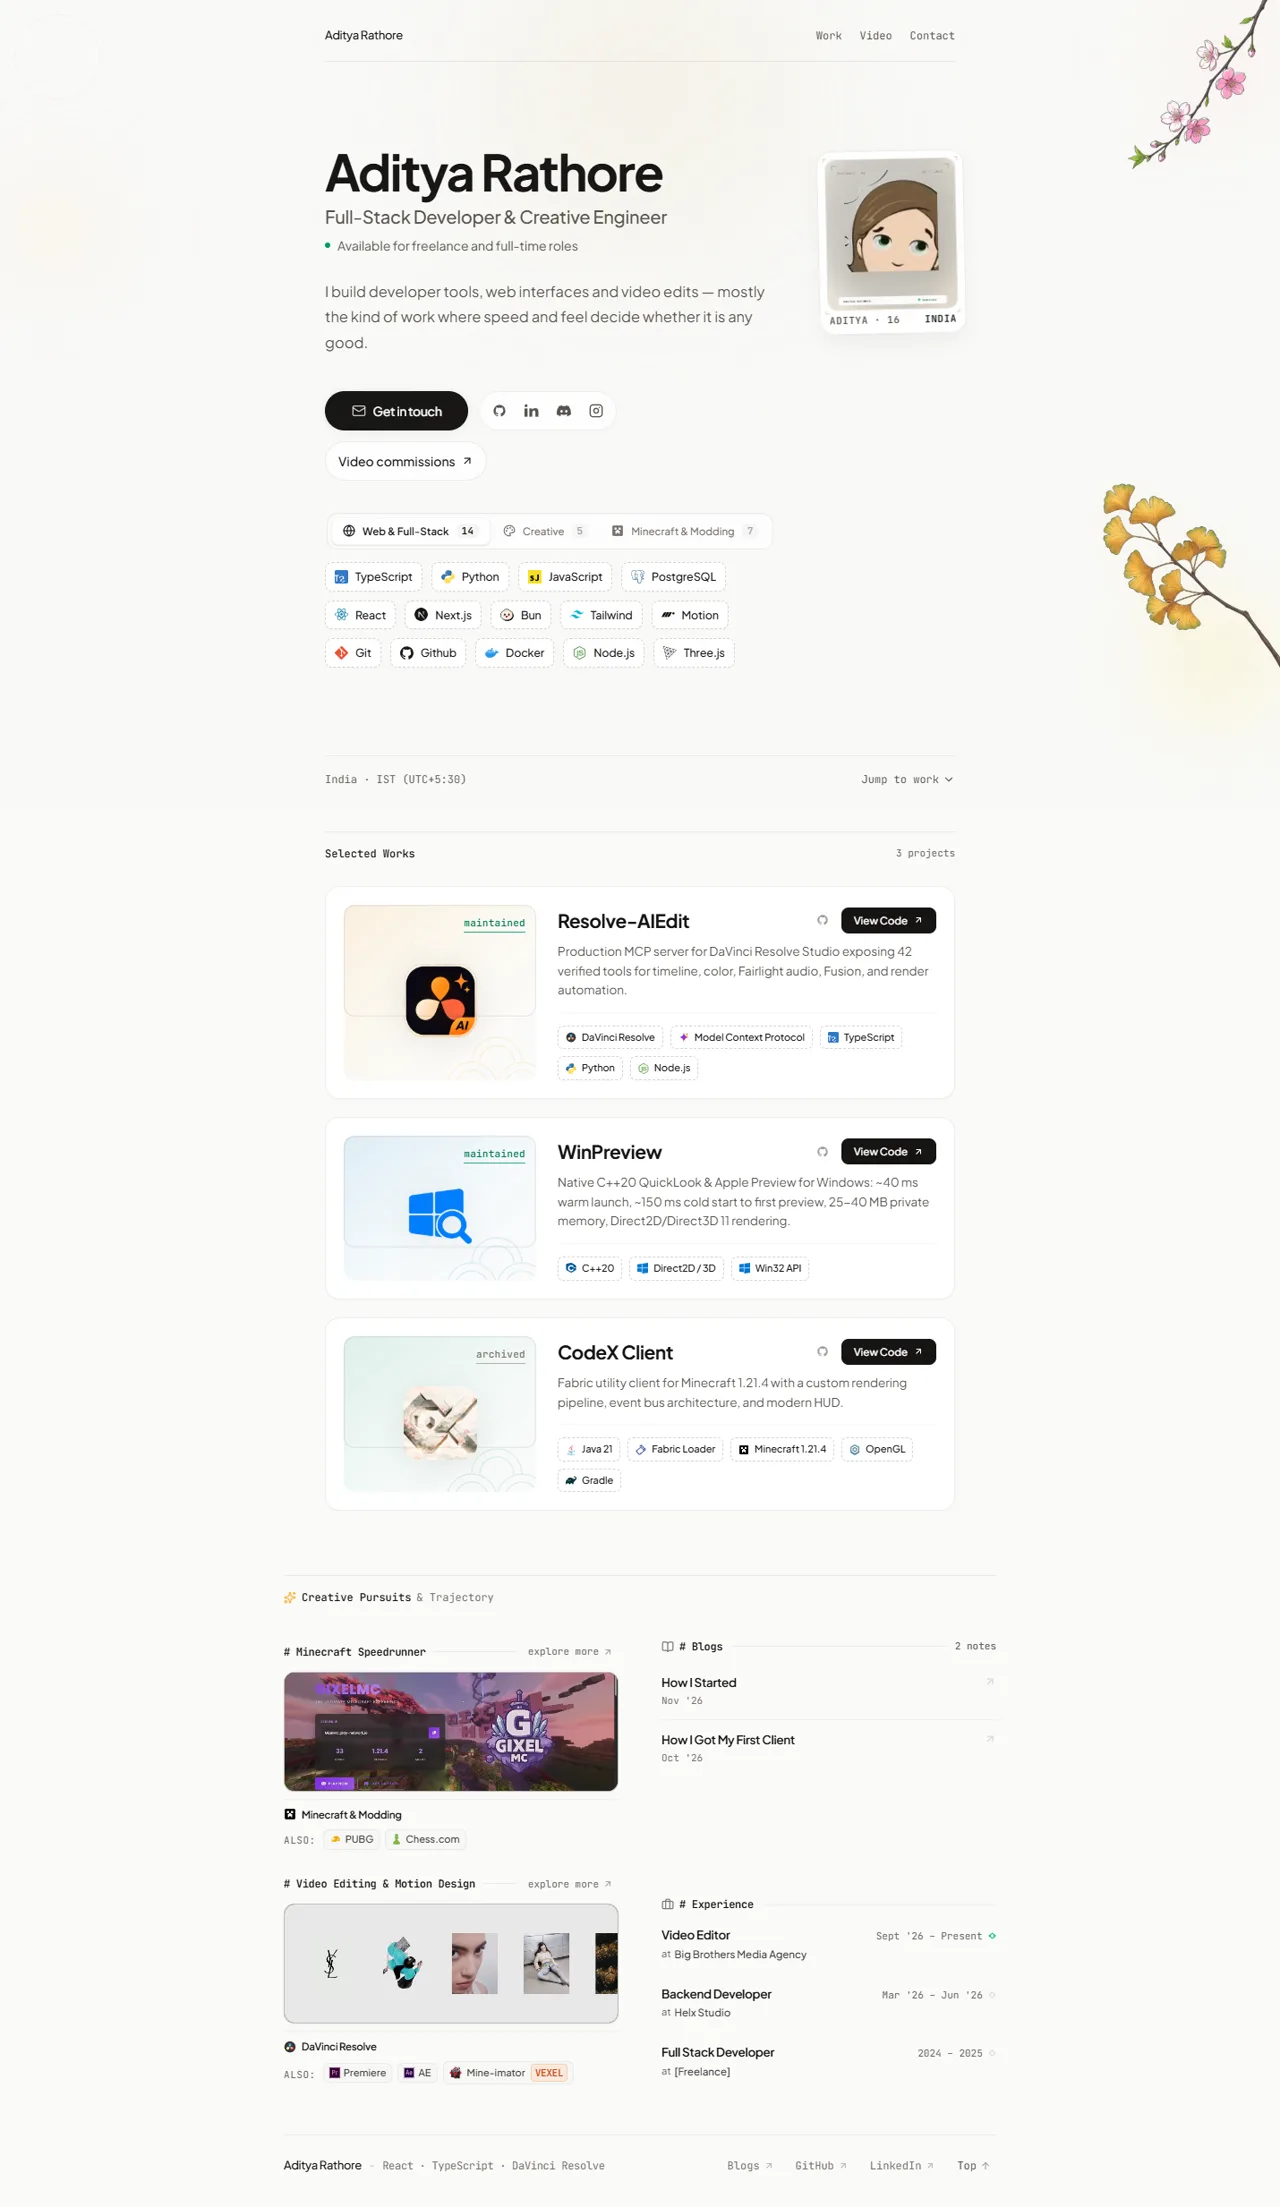
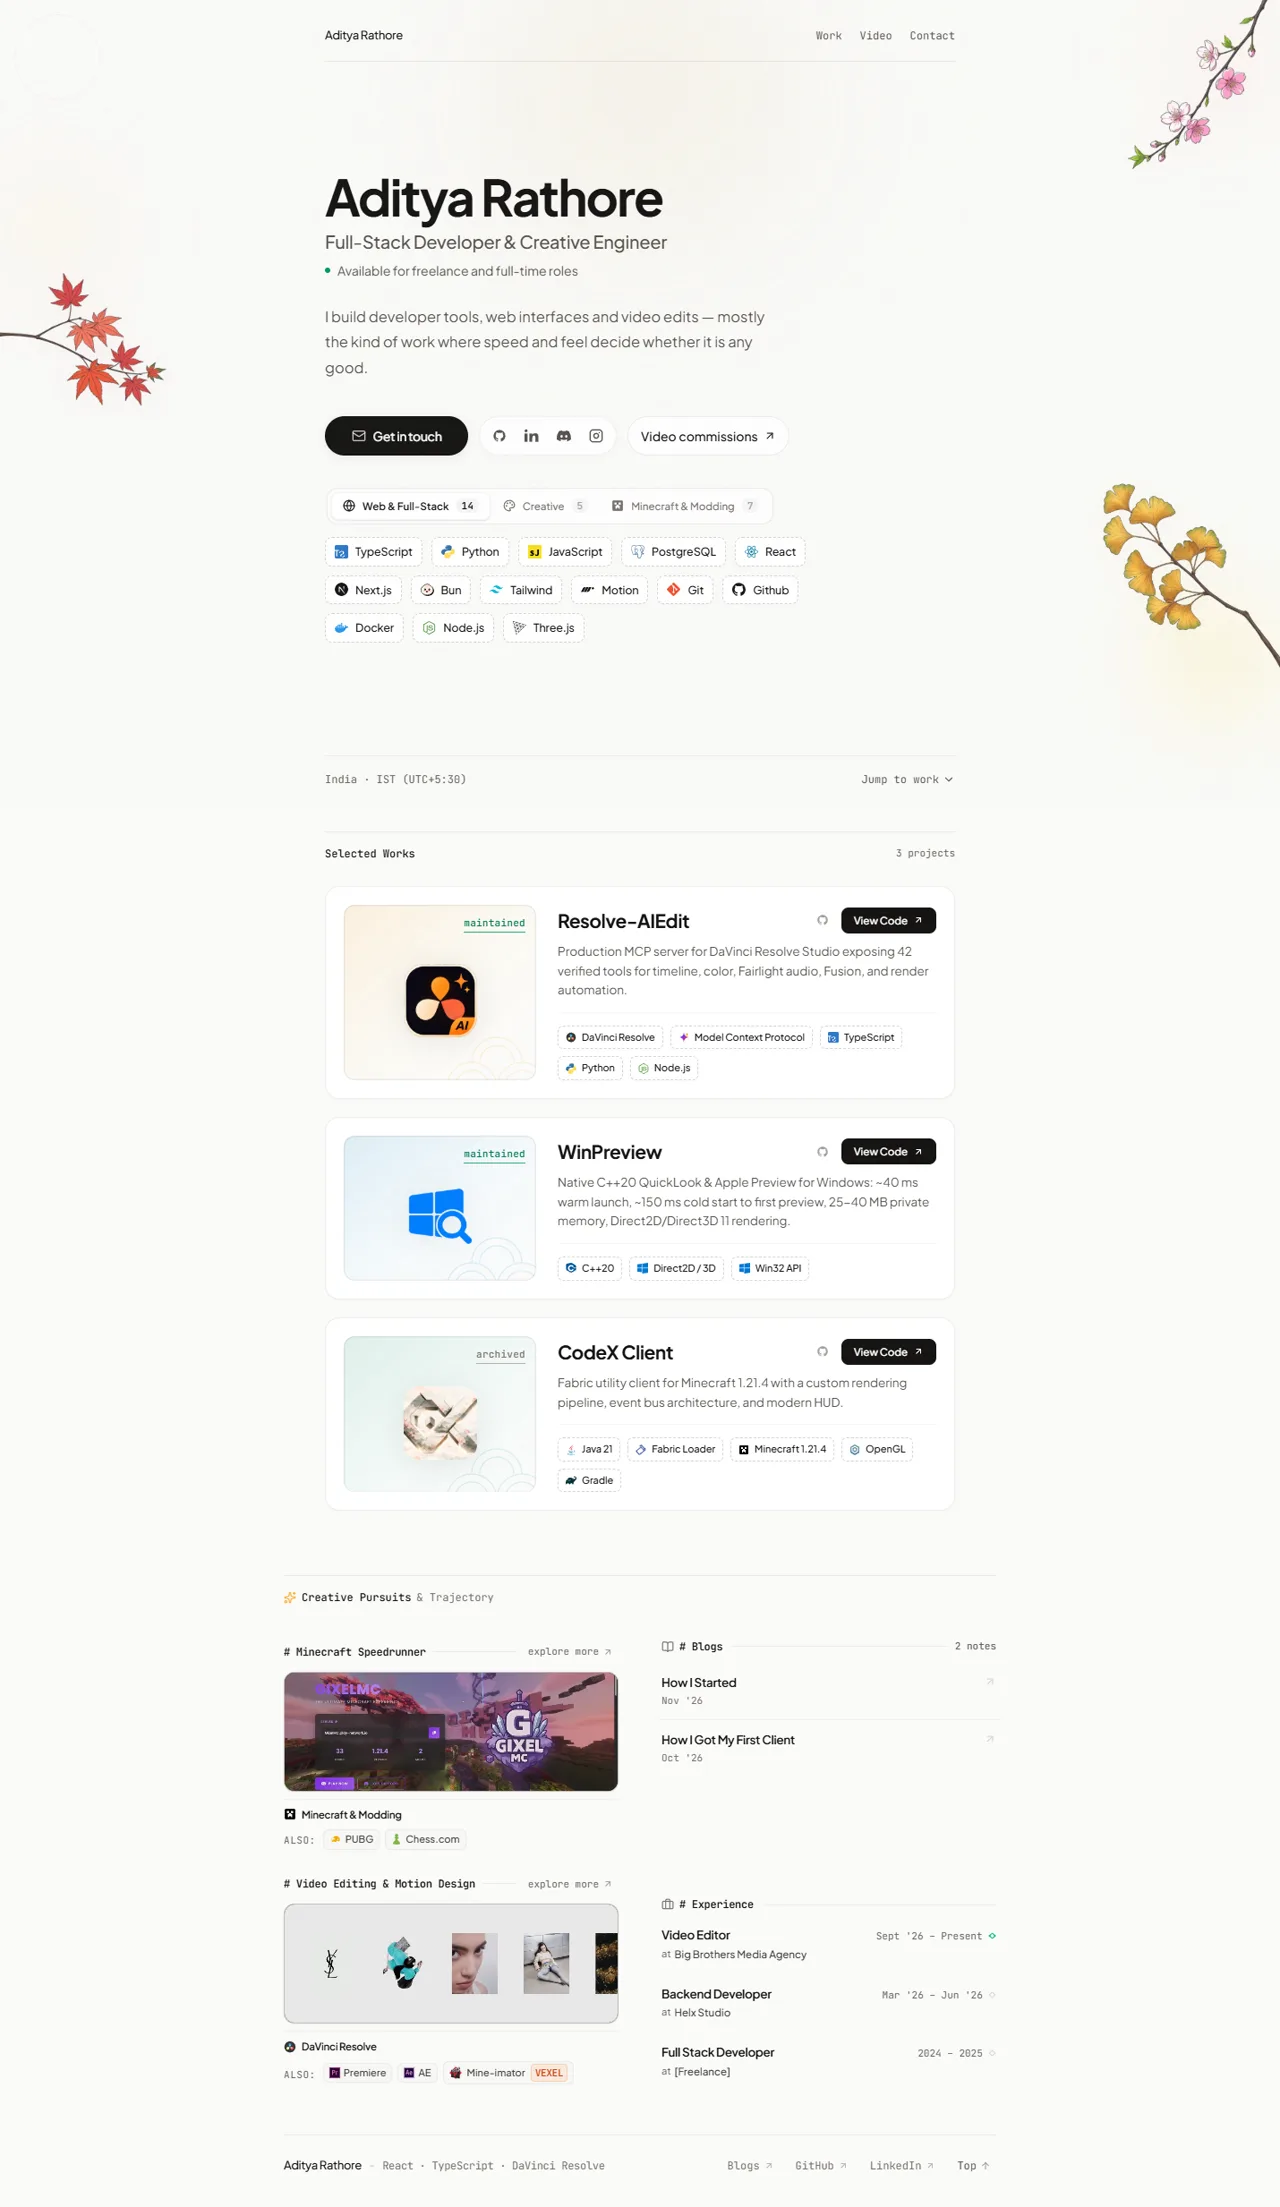
feat(hero): remove the profile card entirely
Deletes the component, both usages, the two WebP assets, the document preload and
the Person schema image, plus the unused ban entry. The hero title row is now a
single column, so the H1 no longer competes with the card on mobile.

Also removes the reel metadata strip (badge, title, subtitle, tool) under the
active video, as requested.

Changed region(s): [[0.25, 0.0616, 0.625, 0.3081], [0.625, 0.0616, 0.75, 0.1541], [0.0312, 0.1232, 0.125, 0.1849]]

diff --git a/src/components/Hero.jsx b/src/components/Hero.jsx
@@ -4,7 +4,6 @@ import {
   ChevronDown
 } from 'lucide-react';
 import ContactDealButton from './ContactDealButton';
-import HeroPortraitCard from './HeroPortraitCard';
 import HeroSkillsShelf from './HeroSkillsShelf';
 
 const SOCIAL_LINKS = [
@@ -67,8 +66,8 @@ export default function Hero({ onExploreClick, onNavigate }) {
         {/* LEFT COLUMN: Identity, Manifesto & Interactive Action Bar */}
         <div className="flex-1 flex flex-col items-start text-left w-full">
           
-          {/* Main Title Row (With Mobile Portrait Integration) */}
-          <div className="w-full flex items-start justify-between gap-4">
+          {/* Main Title Row */}
+          <div className="w-full">
             <div className="space-y-2">
               <h1 className="text-[32px] sm:text-5xl md:text-[56px] font-bold text-[#161514] tracking-[-0.035em] leading-[1.04]">
                 Aditya Rathore
@@ -80,11 +79,6 @@ export default function Hero({ onExploreClick, onNavigate }) {
                 <span className="inline-block h-1.5 w-1.5 rounded-full bg-emerald-600 mt-[7px]" aria-hidden="true" />
                 <span>Available for freelance and <span className="whitespace-nowrap">full-time</span> roles</span>
               </p>
-            </div>
-
-            {/* Mobile-Only Compact Portrait Card (Hidden on md+) */}
-            <div className="md:hidden shrink-0">
-              <HeroPortraitCard compact={true} />
             </div>
           </div>
 
@@ -136,13 +130,6 @@ export default function Hero({ onExploreClick, onNavigate }) {
 
           {/* Core Technical Capabilities Shelf */}
           <HeroSkillsShelf />
-        </div>
-
-        {/* RIGHT COLUMN: Desktop Museum-Grade Tactile Portrait Plate (Uplifted & Compact) */}
-        <div 
-          className="hidden md:block relative shrink-0 pt-1 md:pt-1.5"
-        >
-          <HeroPortraitCard />
         </div>
 
       </div>

diff --git a/src/components/VideoEditingExplorePage.jsx b/src/components/VideoEditingExplorePage.jsx
@@ -643,27 +643,6 @@ export default function VideoEditingExplorePage({ onNavigate }) {
                     </button>
                   ))}
                 </div>
-
-                {/* Editorial Metadata Strip Below Active Reel */}
-                {activeCategory.reels[activeReelIndex] && (
-                  <div className="mt-2.5 px-1 flex flex-col sm:flex-row sm:items-baseline justify-between gap-1 border-t border-stone-200/70 pt-2">
-                    <div className="flex items-baseline gap-2">
-                      <span className="text-[11px] font-mono font-semibold uppercase tracking-wider text-amber-700 bg-amber-50 px-1.5 py-0.5 rounded border border-amber-200/80">
-                        {activeCategory.reels[activeReelIndex].badge}
-                      </span>
-                      <h3 className="text-xs sm:text-sm font-bold text-[#161514] tracking-tight">
-                        {activeCategory.reels[activeReelIndex].title}
-                      </h3>
-                      <span className="hidden sm:inline text-stone-300">•</span>
-                      <p className="hidden sm:inline text-[11px] sm:text-xs text-stone-500 font-mono">
-                        {activeCategory.reels[activeReelIndex].subtitle}
-                      </p>
-                    </div>
-                    <span className="text-[11px] font-mono text-stone-400 shrink-0">
-                      {activeCategory.reels[activeReelIndex].tool} • {activeCategory.reels[activeReelIndex].format}
-                    </span>
-                  </div>
-                )}
               </div>
             )}
 

diff --git a/index.html b/index.html
@@ -56,7 +56,6 @@
     <link rel="preload" as="image" type="image/webp" imagesrcset="/japanese-left-320.webp 320w, /japanese-left.webp 720w" imagesizes="(max-width: 639px) 112px, 288px" />
     <link rel="preload" as="image" type="image/webp" imagesrcset="/japanese-right-320.webp 320w, /japanese-right.webp 720w" imagesizes="(max-width: 639px) 112px, 240px" />
     <link rel="preload" as="image" type="image/webp" media="(min-width: 640px)" href="/japanese-right-lower.webp" />
-    <link rel="preload" as="image" href="/profile-328.webp" type="image/webp" imagesrcset="/profile-328.webp 1x, /profile-656.webp 2x" />
 
     <!-- Google Fonts: Plus Jakarta Sans & JetBrains Mono -->
     <link rel="preconnect" href="https://fonts.googleapis.com" />
@@ -96,7 +95,6 @@
             "alternateName": ["CodeX", "Code-Xceed"],
             "jobTitle": "Full-Stack Developer & Creative Engineer",
             "url": "https://codex.is-a.dev/",
-            "image": "https://codex.is-a.dev/profile-656.webp",
             "sameAs": [
               "https://github.com/Code-Xceed",
               "https://www.linkedin.com/in/aditya-rathore-110125385",
